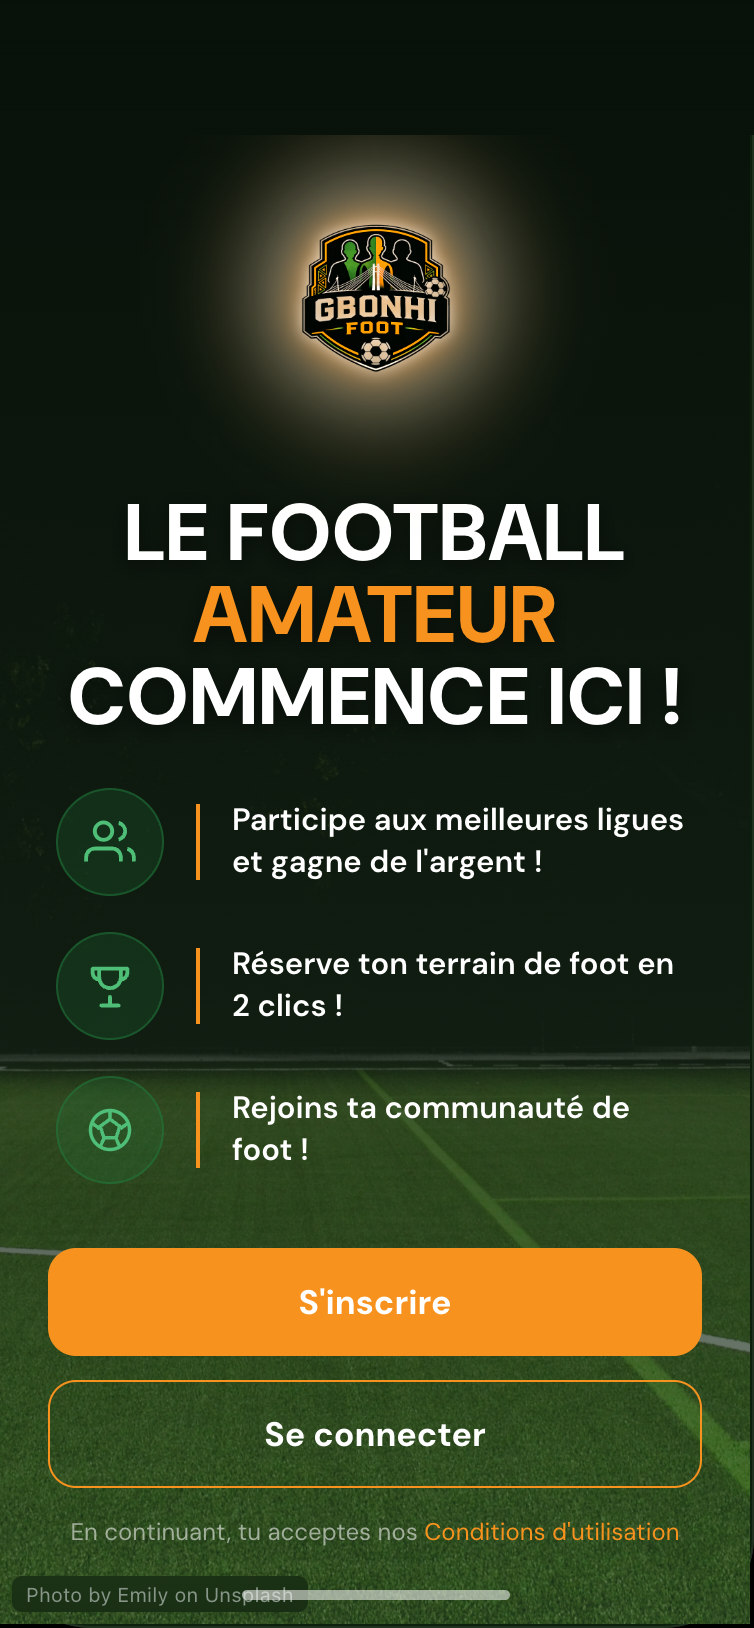
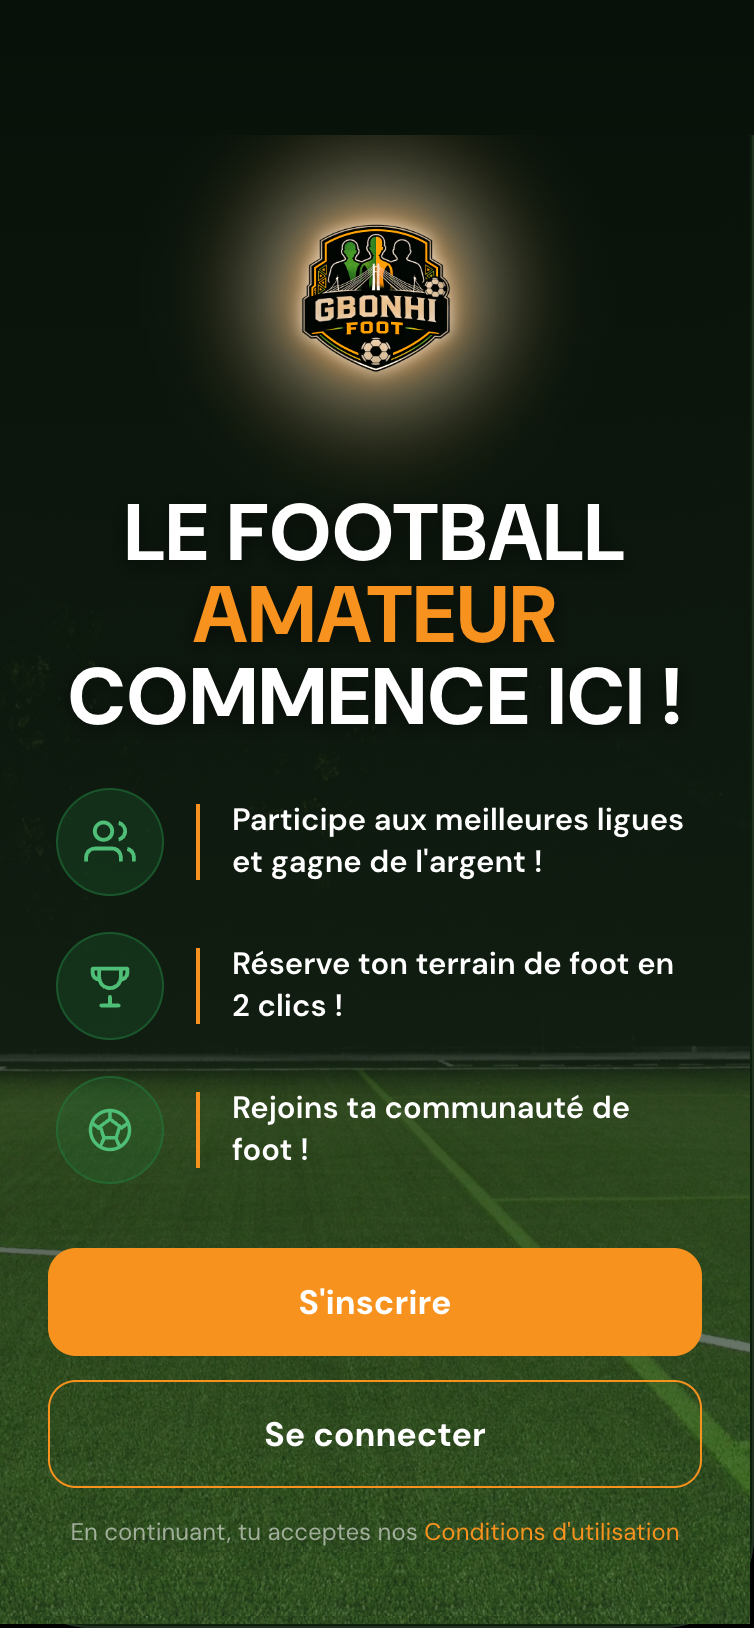
fix(mobile): e-mail facultatif à l'inscription (placeholder + popup sans e-mail) + suppression de l'attribution Unsplash sur l'image de fond login

Changed region(s): [[0.0, 0.9521, 0.6711, 1.0]]

diff --git a/apps/mobile/src/app/(auth)/register.tsx b/apps/mobile/src/app/(auth)/register.tsx
@@ -90,8 +90,18 @@ export default function RegisterScreen() {
   const [loading, setLoading] = useState(false);
 
   async function handleRegister() {
-    if (!prenom || !nom || !telephone || !email) {
-      Alert.alert('Champs requis', 'Renseigne prénom, nom, téléphone et e-mail.');
+    if (!prenom || !nom || !telephone) {
+      Alert.alert('Champs requis', 'Renseigne prénom, nom et téléphone.');
+      return;
+    }
+    // L'e-mail est facultatif (la version publique utilisera la vérification par
+    // SMS via Orange). En attendant cette intégration, le code de vérification
+    // est envoyé par e-mail : il reste donc nécessaire pour l'instant.
+    if (!email.trim()) {
+      Alert.alert(
+        'E-mail temporairement nécessaire',
+        'La vérification par SMS arrive bientôt. Pour l’instant, renseigne un e-mail pour recevoir ton code de vérification.',
+      );
       return;
     }
     setLoading(true);
@@ -206,7 +216,7 @@ export default function RegisterScreen() {
             {/* E-mail (top 53.3 %) */}
             <TextInput
               style={[FIELD, { top: '53.2%' }]}
-              placeholder="Adresse e-mail *"
+              placeholder="Adresse e-mail (facultatif)"
               placeholderTextColor={PH_COLOR}
               value={email}
               onChangeText={setEmail}
